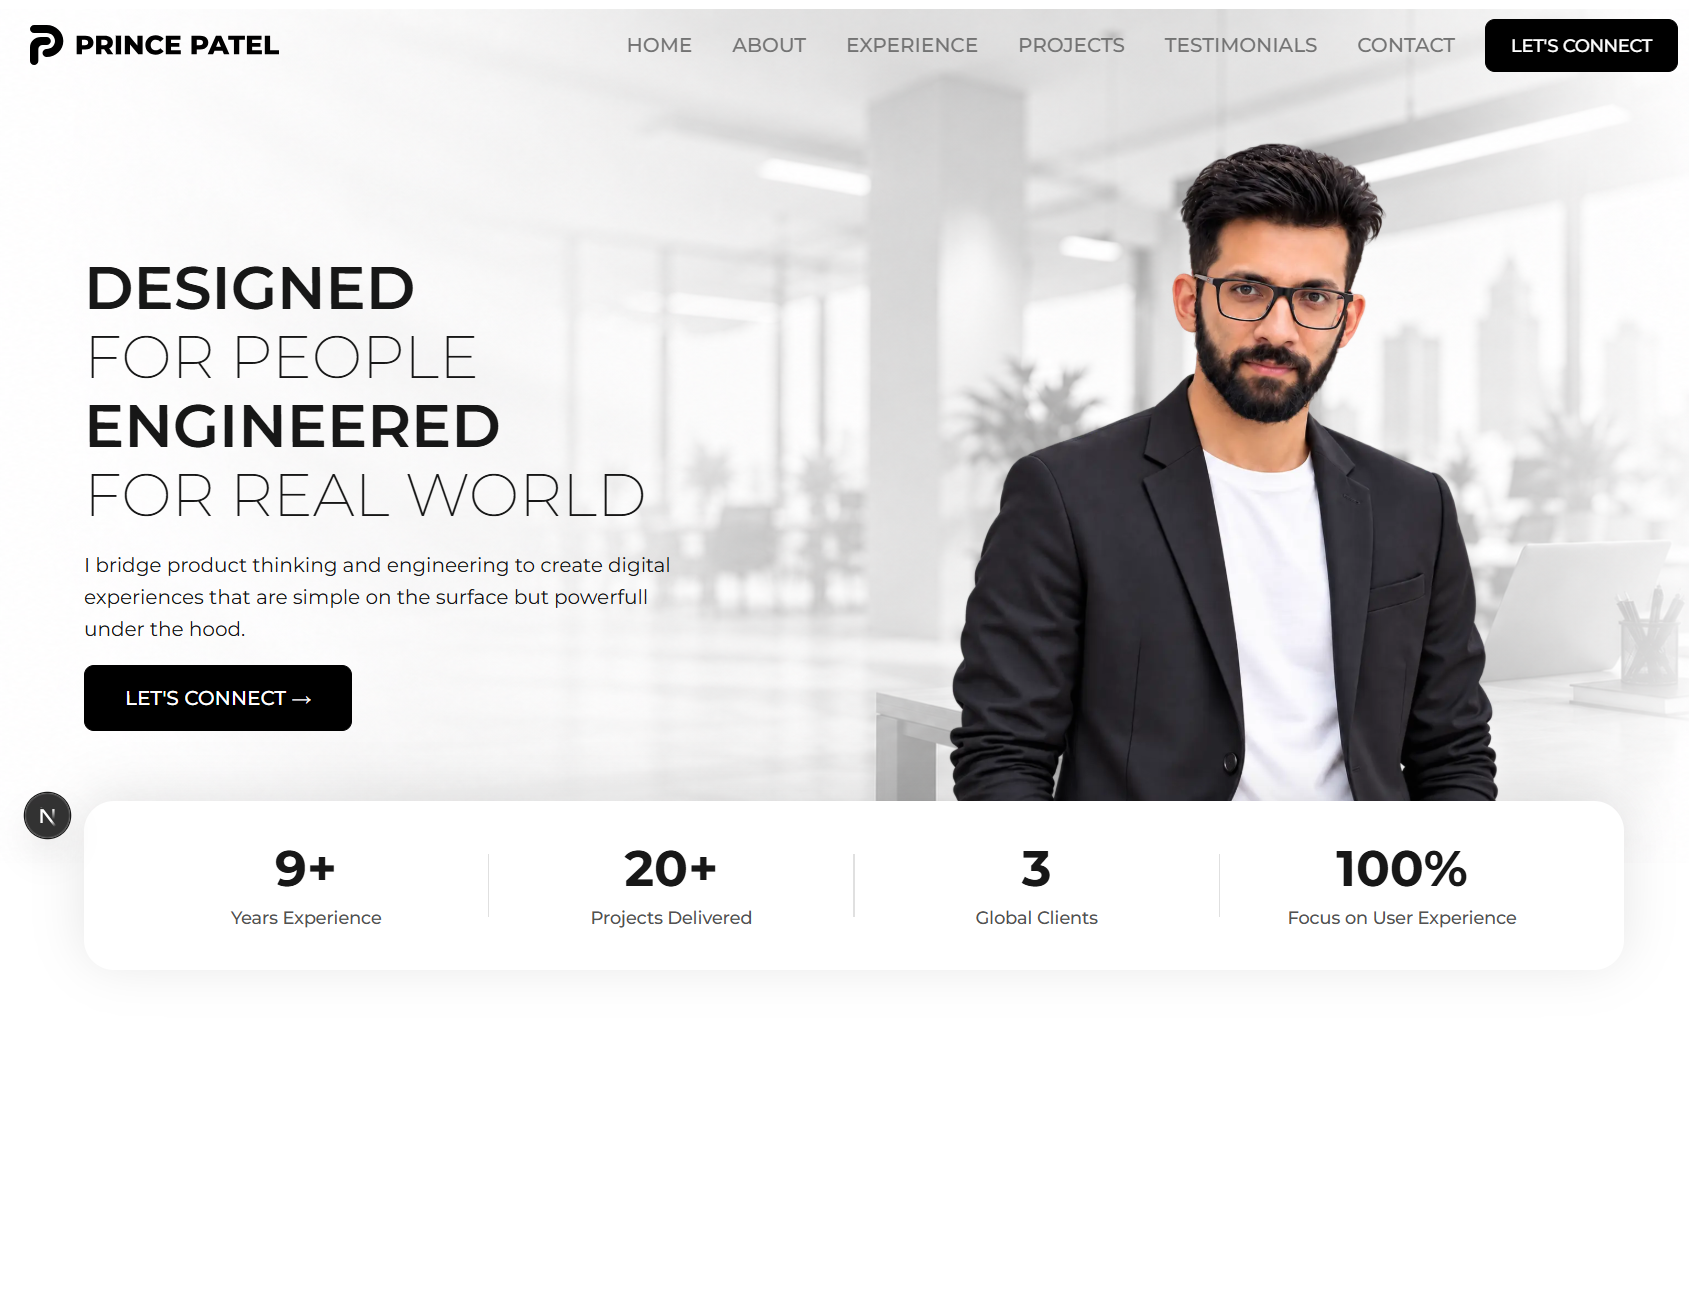
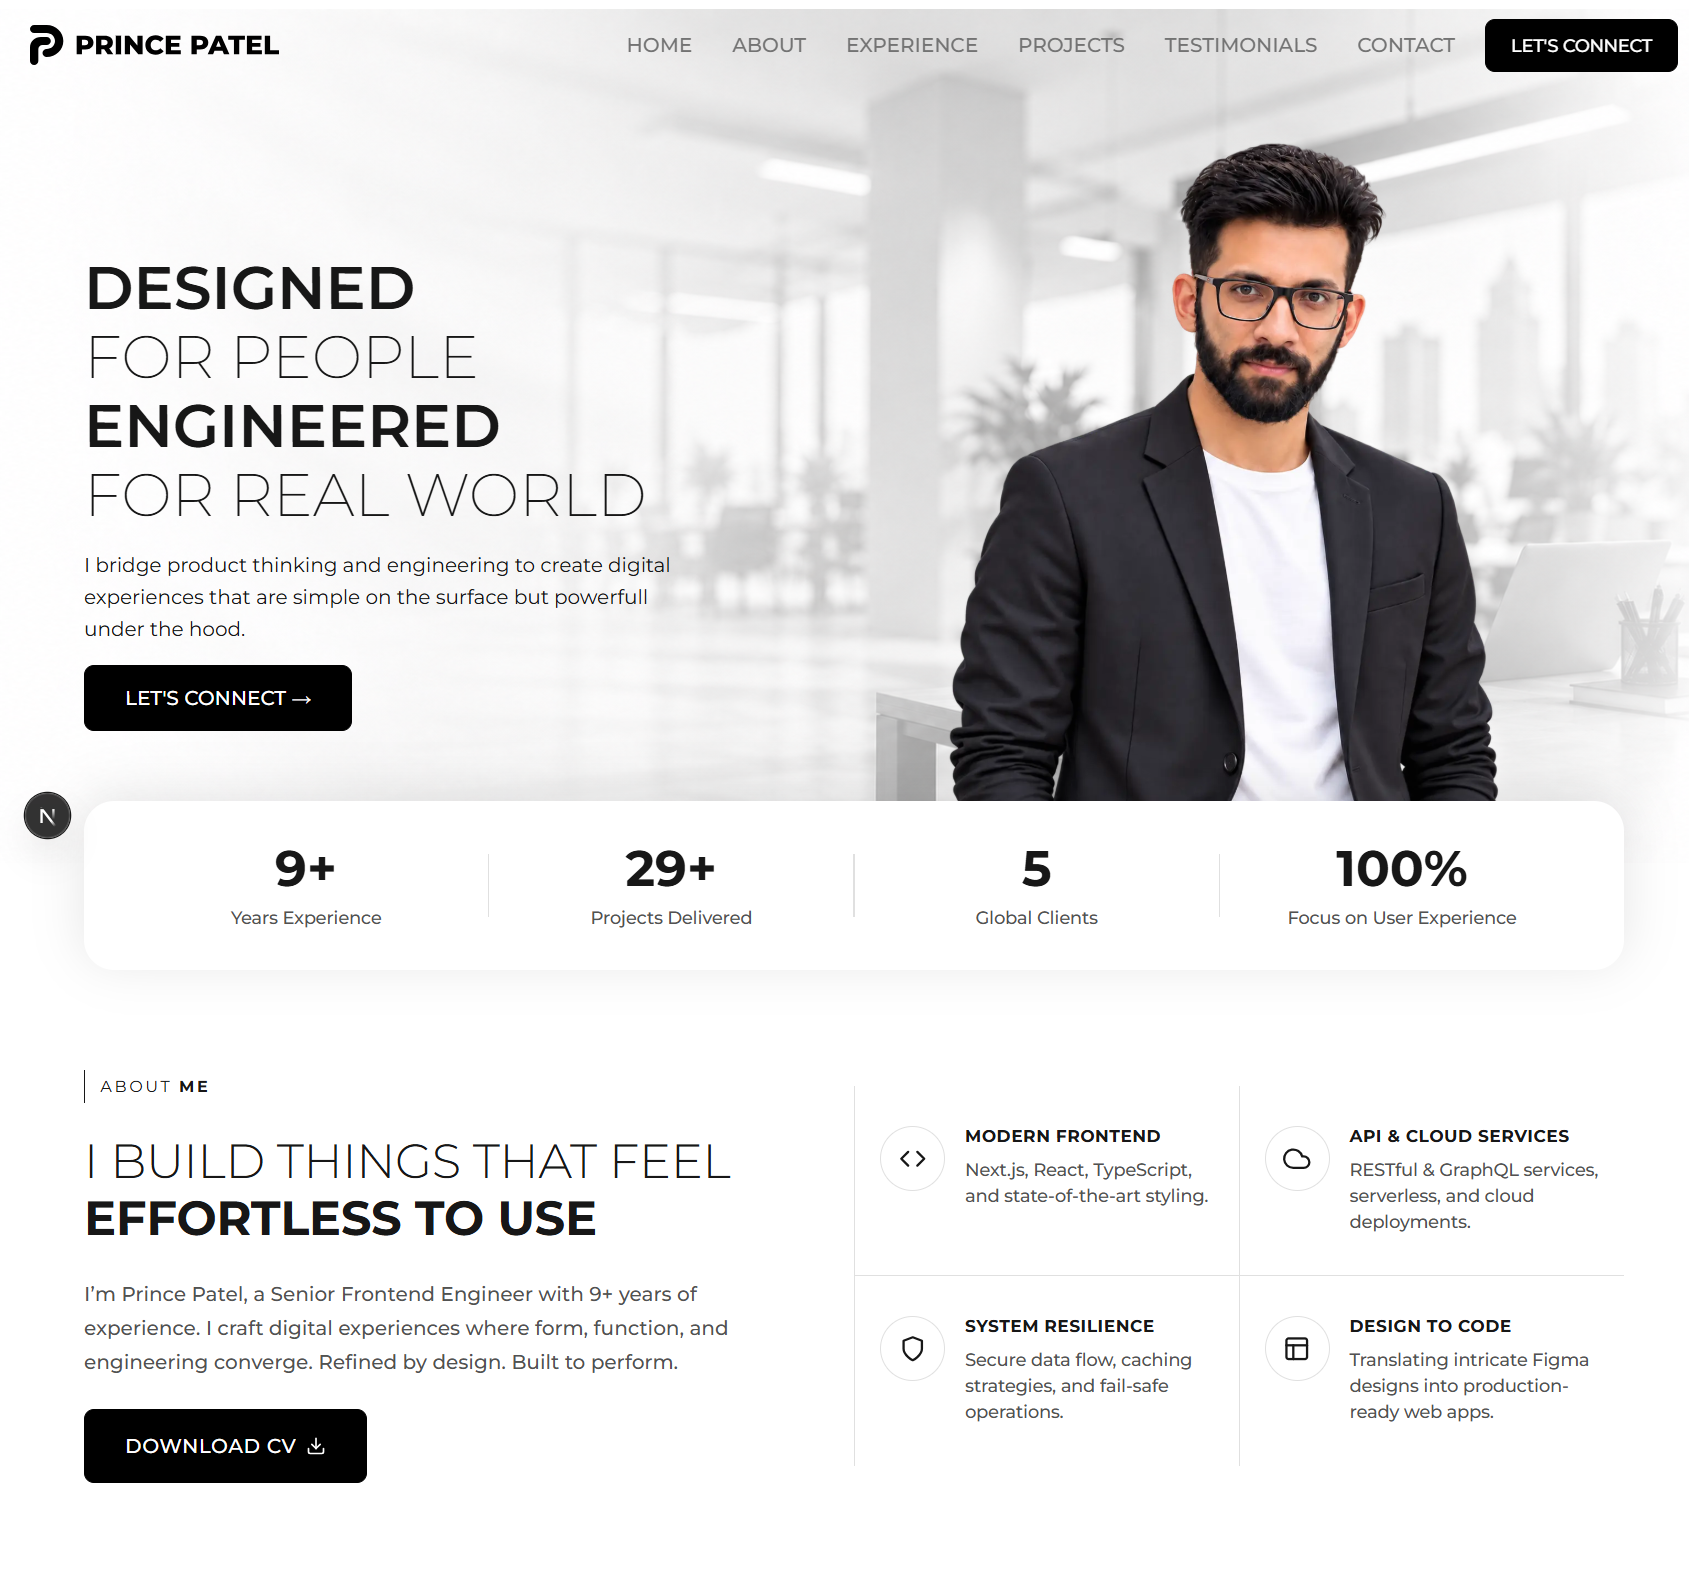
test

diff --git a/src/sections/about/About.tsx b/src/sections/about/About.tsx
@@ -1,4 +1,4 @@
-import { FiCode, FiCloud, FiShield, FiLayout } from "react-icons/fi";
+import { FiCode, FiCloud, FiShield, FiLayout, FiDownload } from "react-icons/fi";
 import styles from "./About.module.css";
 
 interface AboutFeature {
@@ -60,9 +60,13 @@ const About = () => {
               engineering converge. Refined by design. Built to perform.
             </p>
 
-            <button className={`app-button app-button-lg ${styles.aboutBtn}`}>
-              MORE ABOUT ME &rarr;
-            </button>
+            <a
+              href="/resume.pdf"
+              download="Prince_Patel_CV.pdf"
+              className={`app-button app-button-lg ${styles.aboutBtn}`}
+            >
+              DOWNLOAD CV <FiDownload size={16} />
+            </a>
           </div>
 
           {/* Right Column: 2x2 Feature Cross-Grid */}
